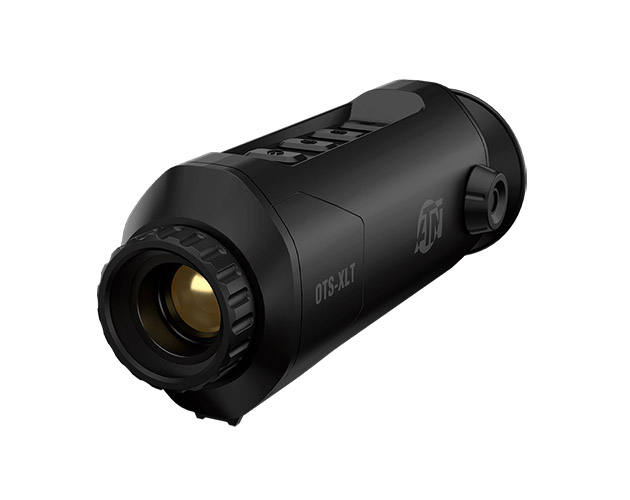
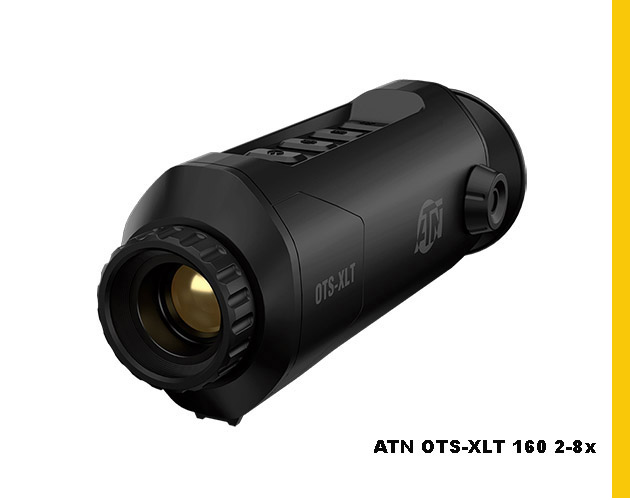
upd files

Changed region(s): [[0.573, 0.0, 1.0, 1.0]]

diff --git a/index.html b/index.html
@@ -55,7 +55,7 @@
          <div class="bike-slider">
           <img class="bike-slider__item" src="./images/ots_1.jpg" width="630" height="430" alt="scope">
           <img class="bike-slider__item" src="./images/ots_2.jpg" width="630" height="430" alt="scope">
-          <img class="bike-slider__item" src="./images/ots_3.png" width="630" height="430" alt="scope">
+          <img class="bike-slider__item" src="./images/ots_3.jpg" width="630" height="430" alt="scope">
           <img class="bike-slider__item" src="./images/ots_4.png" width="630" height="430" alt="scope">
          </div>
          <ul class="bike__list">
@@ -146,74 +146,74 @@
           загальні
           </li>
           <li class="characteristics__line">
-            <p class="characteristics__name">Производитель</p>
-            <p class="characteristics__descr">Xiaomi</p>
+            <p class="characteristics__name">Виробник</p>
+            <p class="characteristics__descr">ATNcorp(USA)</p>
           </li>
           <li class="characteristics__line">
-            <p class="characteristics__name">Вид</p>
-            <p class="characteristics__descr">взрослый, дорожный, городской, электровелосипед, алюминиевая рама</p>
+            <p class="characteristics__name">Модель</p>
+            <p class="characteristics__descr">OTS-XLT 160 2-8x/OTS-XLT 160 2.5-10x/OTS LT 320 6-12x/OTS 4T 384 7-28x</p>
           </li>
           <li class="characteristics__line">
-            <p class="characteristics__name">Колеса</p>
-            <p class="characteristics__descr">26, подвійний алюминіевий обід</p>
+            <p class="characteristics__name">Лінза</p>
+            <p class="characteristics__descr">25 mm /35 mm/35 mm/35 mm</p>
           </li>
           <li class="characteristics__line">
-            <p class="characteristics__name">Електропривід</p>
-            <p class="characteristics__descr">мотор 250W, разгін до 25 км/г</p>
+            <p class="characteristics__name">Сенсорна частота</p>
+            <p class="characteristics__descr">50 Hz/50 Hz/60 Hz/60 Hz </p>
           </li>
         </ul>
         <ul class="characteristics__list">
           <li class="characteristics__title">
-           амортизація
+           Наближення
           </li>
           <li class="characteristics__line">
-            <p class="characteristics__name">Тип амортизации</p>
-            <p class="characteristics__descr">амортизирующая вилка (Hard tail)</p>
+            <p class="characteristics__name">Magnification</p>
+            <p class="characteristics__descr">2-8x/2.5 – 10x/6-12x/7 – 28x </p>
           </li>
           <li class="characteristics__line">
-            <p class="characteristics__name">Вилка</p>
-            <p class="characteristics__descr">пружинно-эластомерная</p>
+            <p class="characteristics__name">Field of view</p>
+            <p class="characteristics__descr">4.5x3/6.5x4.9/5x3.8/ 5x3.8</p>
           </li>
         </ul>
         <ul class="characteristics__list">
           <li class="characteristics__title">
-            управління
+            Матриця
           </li>
           <li class="characteristics__line">
-            <p class="characteristics__name">Руль</p>
-            <p class="characteristics__descr">изогнутый, регулируемый подъем</p>
+            <p class="characteristics__name">Micro Display </p>
+            <p class="characteristics__descr">720×576 px/720×540 px /1280x960 HD Display/ 1280x720 HD Display</p>
           </li>
           <li class="characteristics__line">
-            <p class="characteristics__name">Манетки</p>
-            <p class="characteristics__descr">триггерные однорычажные, Shimano</p>
+            <p class="characteristics__name">Живлення</p>
+            <p class="characteristics__descr">USB, type C </p>
           </li>
         </ul>
         <ul class="characteristics__list">
           <li class="characteristics__title">
-            характеристика трансмиссии
+            Розпознавання
           </li>
           <li class="characteristics__line">
-            <p class="characteristics__name">Кільксть швидкостей</p>
-            <p class="characteristics__descr">7</p>
+            <p class="characteristics__name">Human Detection Range</p>
+            <p class="characteristics__descr">700/850/2400/3000</p>
           </li>
           <li class="characteristics__line">
-            <p class="characteristics__name">Педалі</p>
-            <p class="characteristics__descr">класичні</p>
+            <p class="characteristics__name">Human Recognition Range </p>
+            <p class="characteristics__descr">350/425/1000/1320</p>
           </li>
           <li class="characteristics__line">
-            <p class="characteristics__name">Передній перемикач</p>
-            <p class="characteristics__descr">1 зірка</p>
+            <p class="characteristics__name">Human Identification Range </p>
+            <p class="characteristics__descr">200/210/550/720</p>
           </li>
-          <li class="characteristics__line">
+          <!--<li class="characteristics__line">
             <p class="characteristics__name">Задниій перемикач</p>
             <p class="characteristics__descr">Shimano Tourney (прогулянка)</p>
           </li>
           <li class="characteristics__line">
             <p class="characteristics__name">Касета</p>
             <p class="characteristics__descr">7 зірок</p>
-          </li>
+          </li>-->
         </ul>
-        <ul class="characteristics__list">
+        <!--<ul class="characteristics__list">
           <li class="characteristics__title">
            гальма
           </li>
@@ -229,18 +229,18 @@
             <p class="characteristics__name">Готовність до установки дискових</p>
             <p class="characteristics__descr">рама, вилка, втулка</p>
           </li>
-        </ul>
+        </ul>-->
         <ul class="characteristics__list">
           <li class="characteristics__title">
            інше
           </li>
           <li class="characteristics__line">
-            <p class="characteristics__name">Оснащение</p>
-            <p class="characteristics__descr">електроустаткування, дзвоник</p>
+            <p class="characteristics__name">Батарея</p>
+            <p class="characteristics__descr">≈10 hr </p>
           </li>
           <li class="characteristics__line">
             <p class="characteristics__name">Вага</p>
-            <p class="characteristics__descr">25 кг</p>
+            <p class="characteristics__descr">370 г/420 г/780 г/900г</p>
           </li>
         </ul>
       </div>
